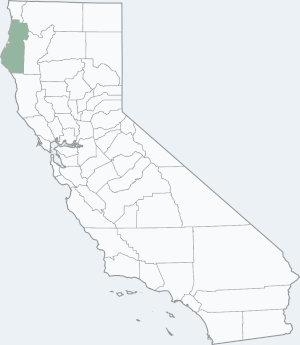
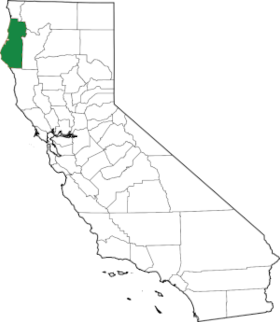
Make map image smaller

diff --git a/assets/css/main.scss b/assets/css/main.scss
@@ -73,7 +73,7 @@ h1 a {
 
 .intro .map {
     background-repeat: no-repeat;
-    min-height: 345px;
+    min-height: 322px;
     padding-top: 10px;
 }
 
